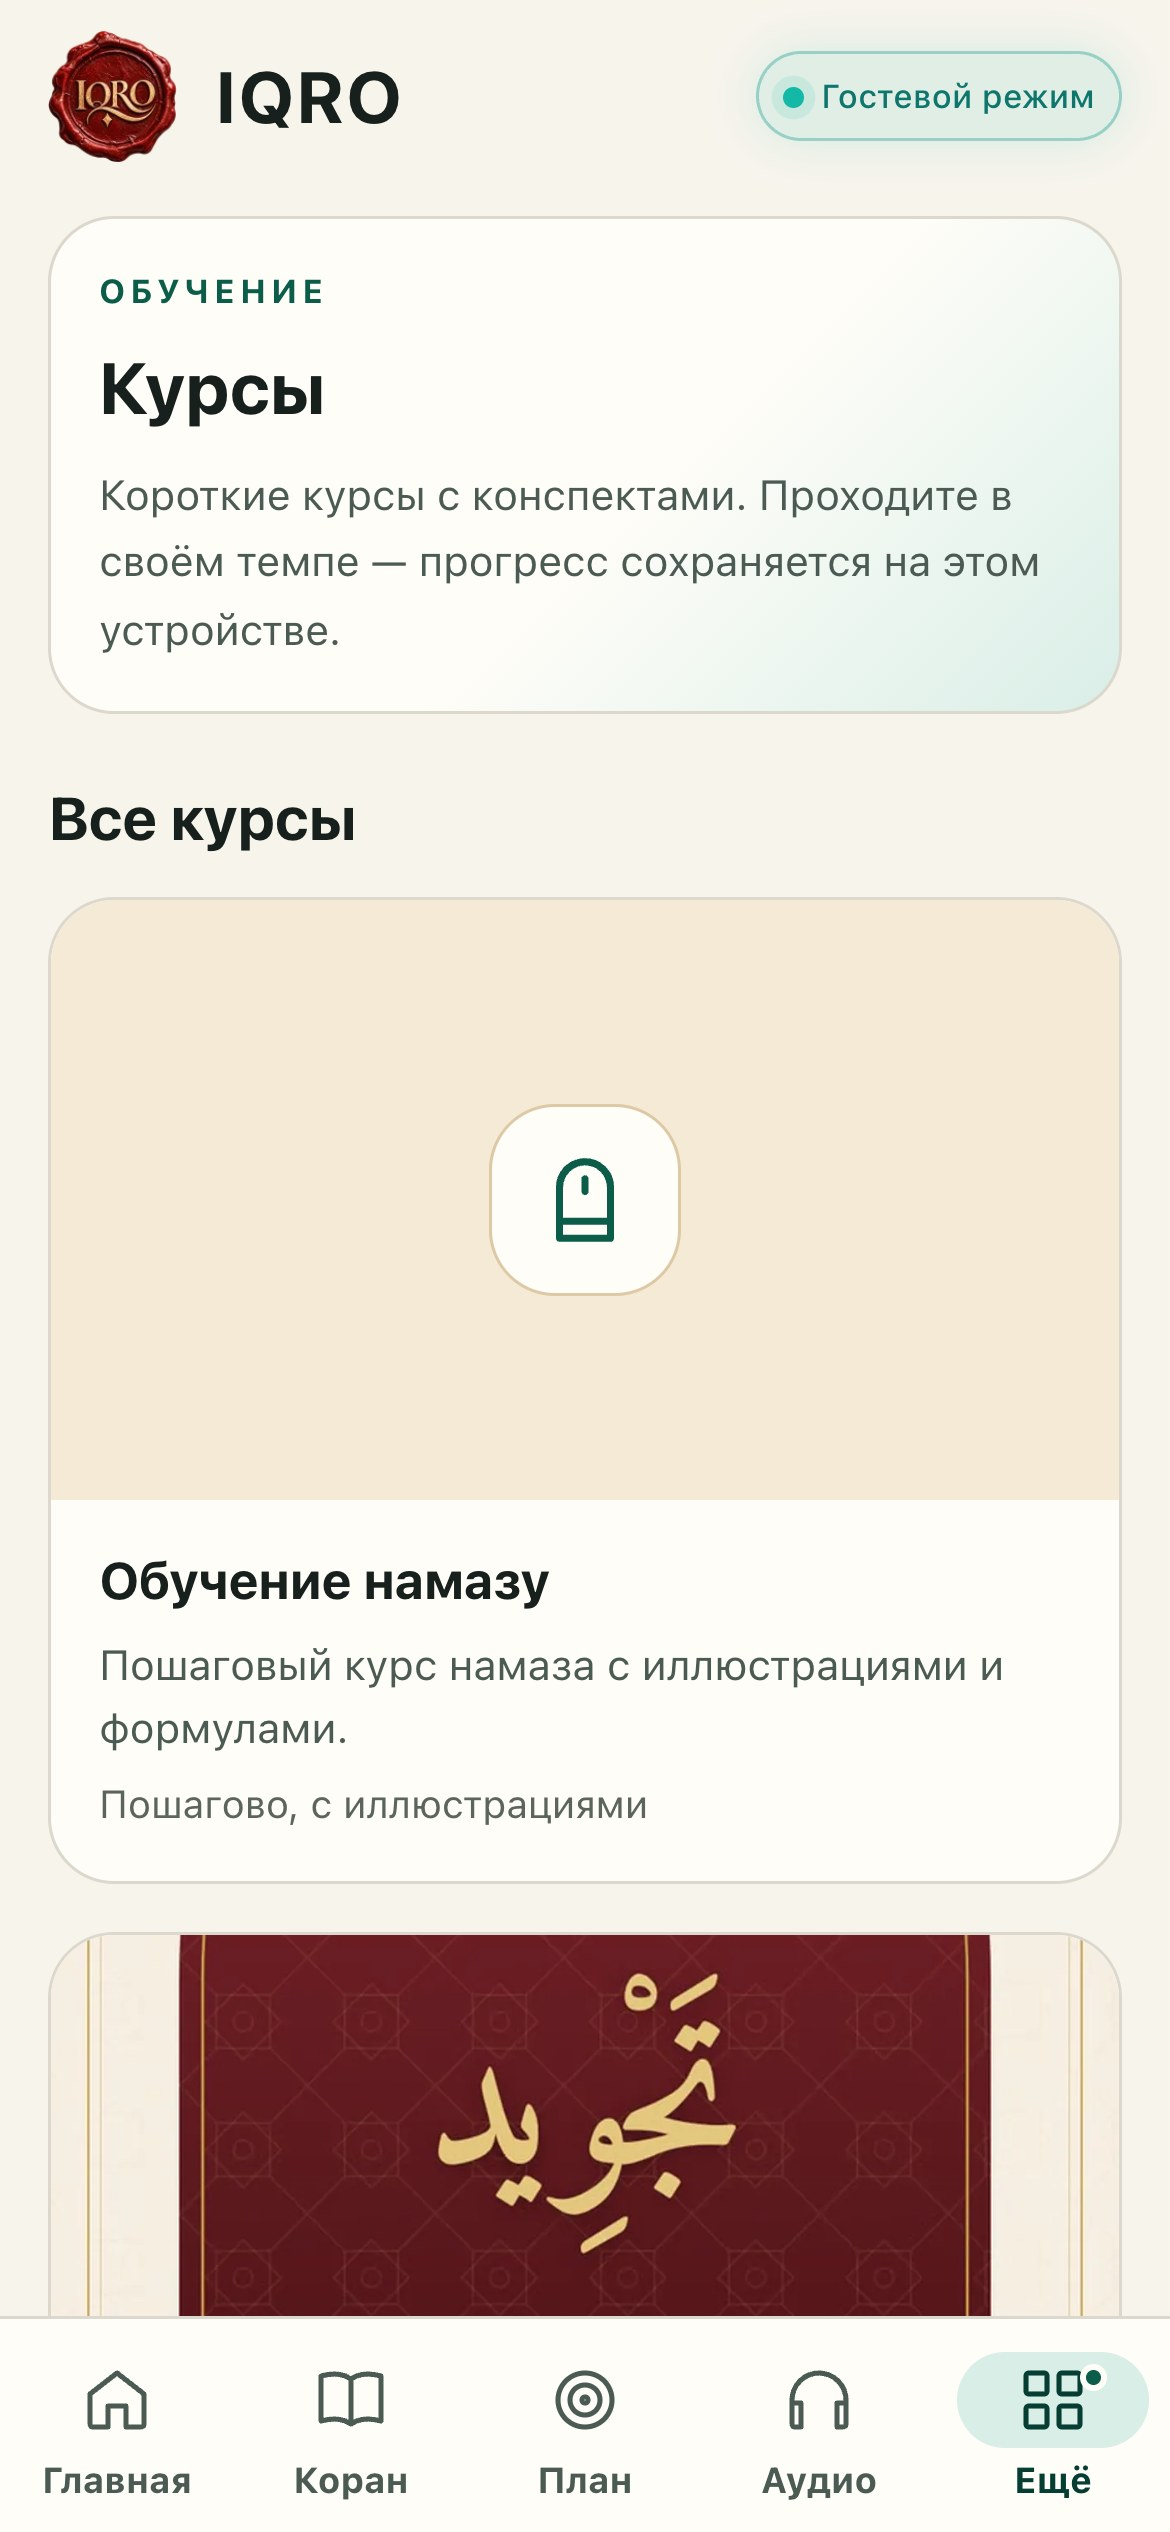
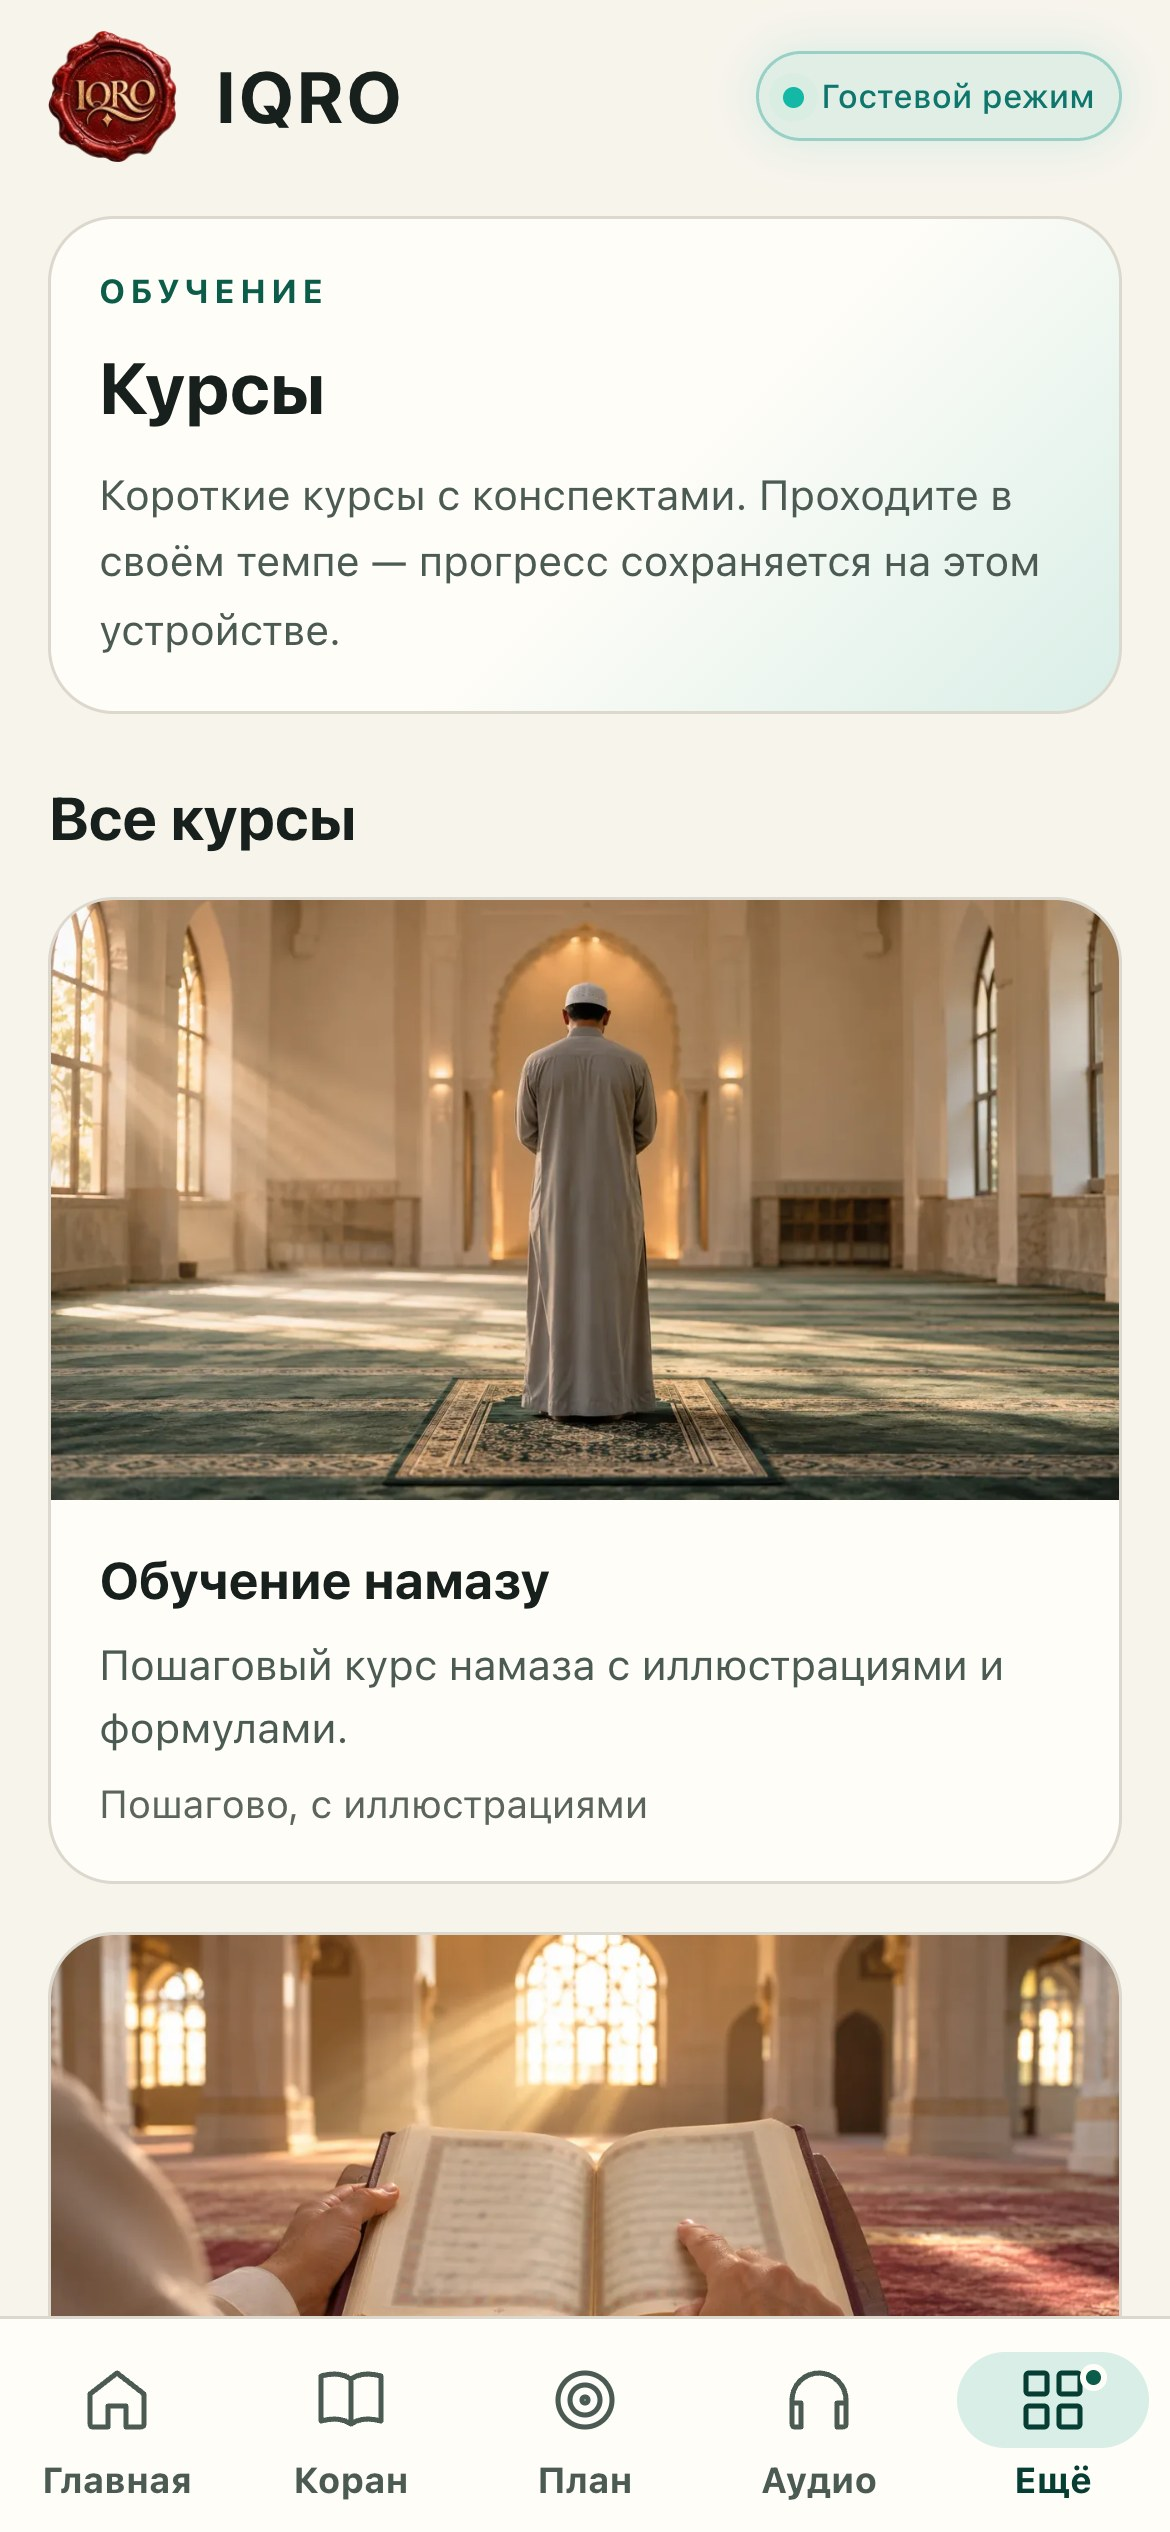
docs(guides): course links card with the new course covers

diff --git a/docs/guides/course-links/README.md b/docs/guides/course-links/README.md
@@ -14,4 +14,4 @@
 
 ---
 
-Основа снимков: сайт iqro.forum, 10 ноября 2026; экран приложения — Redmi, сборка «IQRO тест» из main 9048ca87, 9 ноября 2026.
+Основа снимков: сайт iqro.forum, 11 ноября 2026; экран приложения — снимок из тестов приложения с обложками сайта, 11 ноября 2026.
